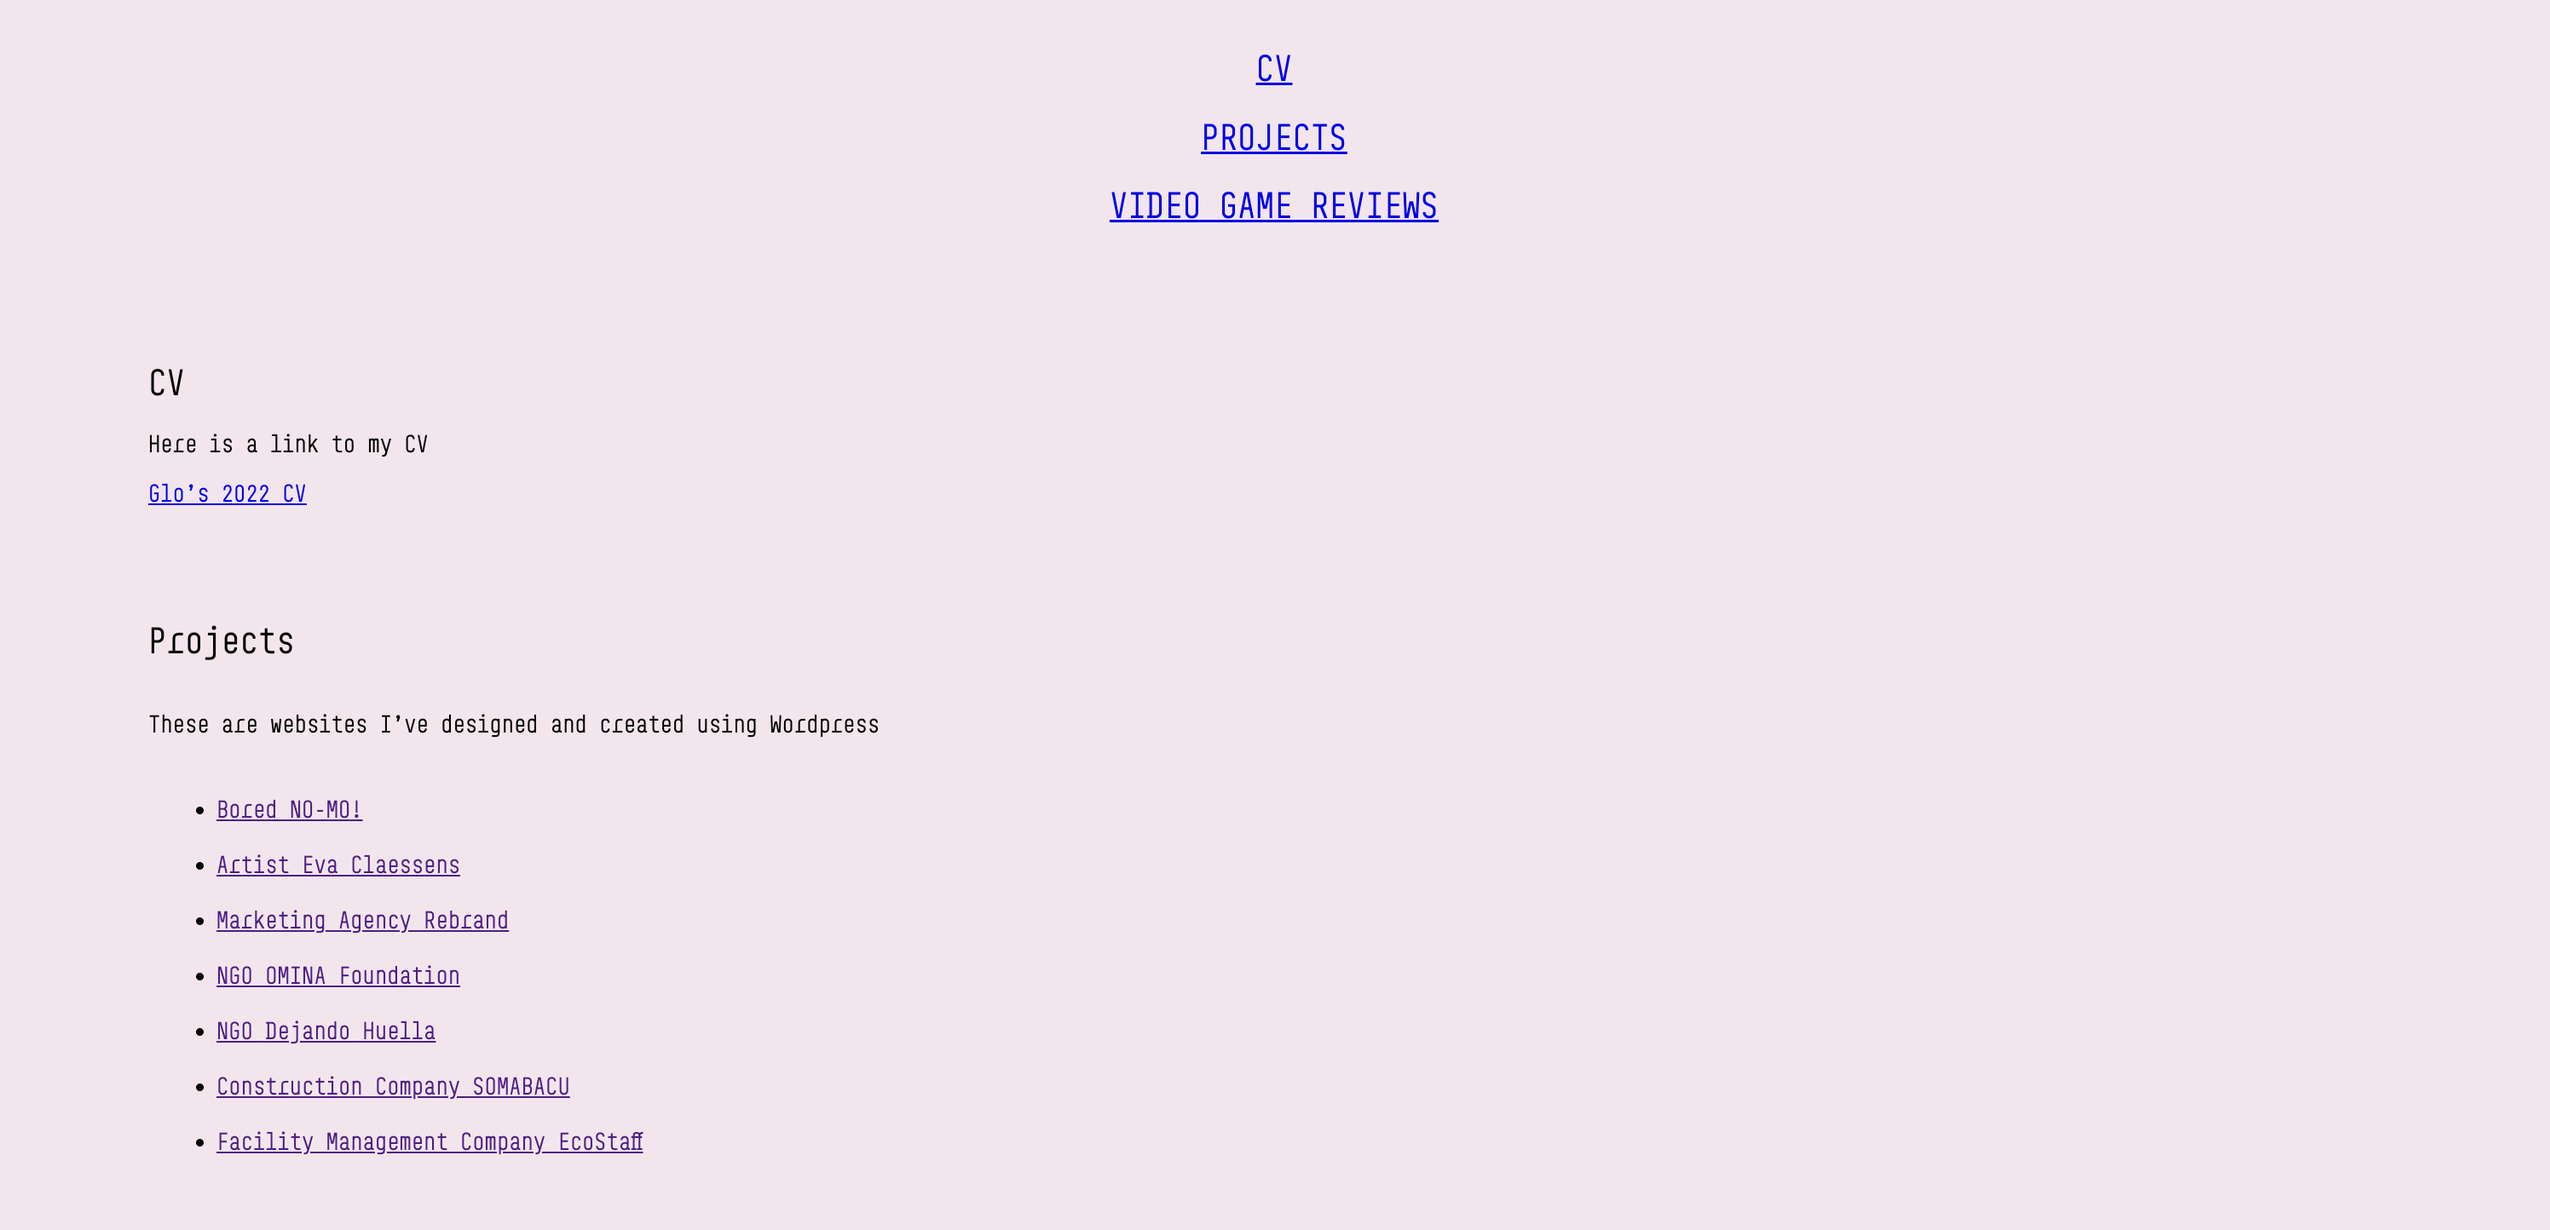
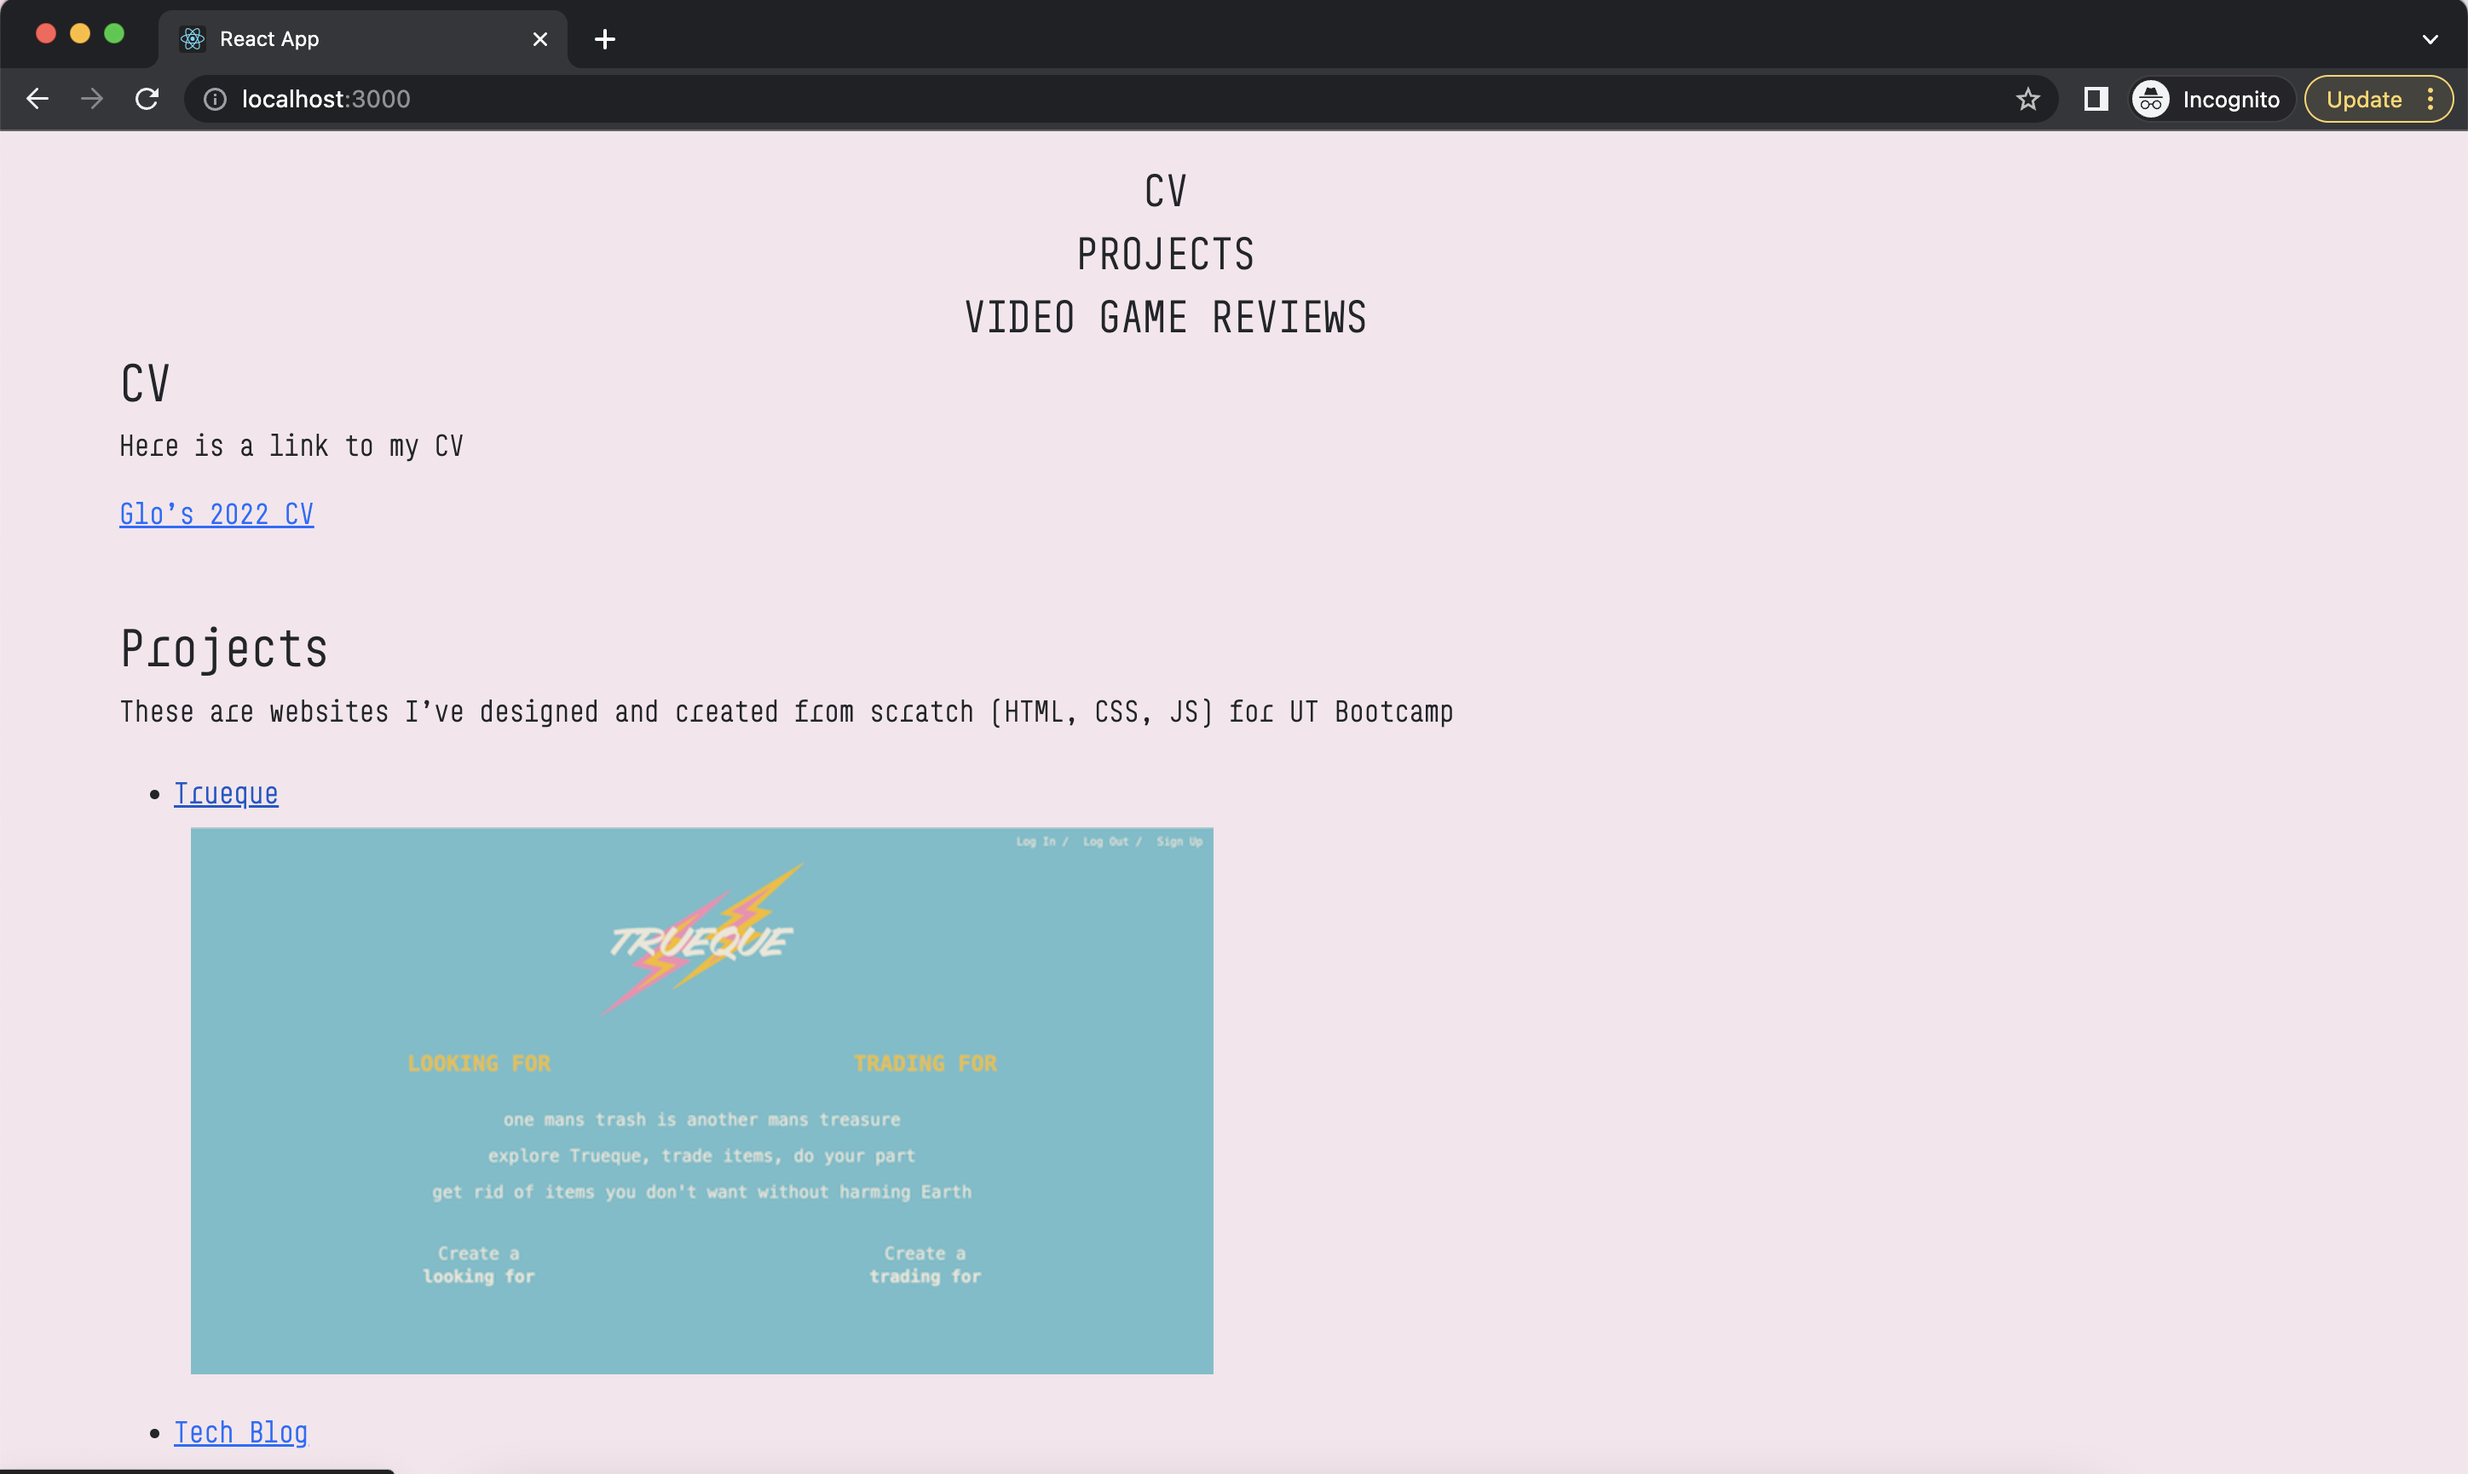
updated read me with images

diff --git a/src/components/VideoGames.js b/src/components/VideoGames.js
@@ -9,19 +9,19 @@ import zombies from '../images/zombies.gif'
 export default function VideoGames (){
     return (
         <div id="games" className="margin">
-            <h2>Video Game Reviews</h2>
+            <h3>Video Game Reviews</h3>
             <p>Love some, love some not</p>
             <div className="reviews">
 
                 <section>
-                <h3>Super Mario 64</h3>
+                <h4>Super Mario 64</h4>
                     <img src={mario} alt="gif of Mario sliding on a turtle shell"/>
                     <p>Greatest game ever. No more needed.</p>
                     <p>10/10</p>
                 </section>
 
                 <section>
-                <h3>Lovers in a Dangerous Spacetime</h3>
+                <h4>Lovers in a Dangerous Spacetime</h4>
                     <img src={lovers} alt="gif of spaceship fighting off mini bosses"/>
                     <p>Unbelievably good game. Crazy hard. </p>
                     <p>Beautiful graphics. If playing solo,</p>
@@ -30,7 +30,7 @@ export default function VideoGames (){
                 </section>
 
                 <section>
-                <h3>Rocket League</h3>
+                <h4>Rocket League</h4>
                     <img src={rocket} alt="gif of a race car hitting a ball and scoring a goal"/>
                     <p>Did not like. At all.</p>
                     <p>Don't want to say I hate it, but I do.</p>
@@ -38,7 +38,7 @@ export default function VideoGames (){
                 </section>   
 
                 <section>
-                <h3>Fortnite</h3>
+                <h4>Fortnite</h4>
                     <img src={fortnite} alt="gif of player shooting another player"/>
                     <p>I don't trust people</p>
                     <p>that say this is a bad game.</p>
@@ -48,7 +48,7 @@ export default function VideoGames (){
                 </section> 
                 
                 <section>
-                <h3>Luigis Dark Moon Mansion</h3>
+                <h4>Luigis Dark Moon Mansion</h4>
                     <img src={luigi} alt="gif of Luigi vacuuming a ghost"/>
                     <p>One of my favorite games ever.</p>
                     <p>Super fun to play, all ages.</p>
@@ -56,7 +56,7 @@ export default function VideoGames (){
                 </section>
 
                 <section>
-                <h3>COD Black Ops 2</h3>
+                <h4>COD Black Ops 2</h4>
                     <img src={zombies} alt="gif of player shooting down a zombie"/>
                     <p>Only COD I've liked, because of zombies mode.</p>
                     <p>I've yet to find weapons as good as these.</p>

diff --git a/src/components/Projects.js b/src/components/Projects.js
@@ -4,7 +4,7 @@ export default function Projects (){
     return (
         <div>
             <section id="projects" className="margin">
-            <h2 >Projects</h2>
+            <h3 >Projects</h3>
             <p>These are websites I've designed and created from scratch (HTML, CSS, JS) for UT Bootcamp</p>
                 <ul className="links">
                     <li id="trueque"><a href="https://the-sequelizers.herokuapp.com/" rel="noreferrer">Trueque</a></li>

diff --git a/src/components/Cv.js b/src/components/Cv.js
@@ -5,7 +5,7 @@ export default function Cv (){
     return (
         <div>
             <section id="cv">
-            <h2 className="margin">CV</h2>
+            <h3 className="margin">CV</h3>
             <p className="margin">Here is a link to my CV</p>
             <a href={cv} rel="noreferrer" className="margin">Glo's 2022 CV</a>
             </section>

diff --git a/src/components/Menu.js b/src/components/Menu.js
@@ -4,9 +4,9 @@ export default function Menu (){
     return (
         <div>
             <section className="menu">
-            <h2>CV</h2>
-            <h2>PROJECTS</h2>
-            <h2>VIDEO GAME REVIEWS</h2>
+            <h4>CV</h4>
+            <h4>PROJECTS</h4>
+            <h4>VIDEO GAME REVIEWS</h4>
             </section>
         </div>
     )

diff --git a/src/components/Form.js b/src/components/Form.js
@@ -15,7 +15,7 @@ const Form = () => {
   }
   return (
     <div className="container mt-5">
-      <h2 className="mb-3">Contact me!</h2>
+      <h3 className="mb-3">Contact me!</h3>
       <form onSubmit={onSubmit}>
         <div className="mb-3">
           <label className="form-label" htmlFor="name">

diff --git a/src/components/Nav.js b/src/components/Nav.js
@@ -5,7 +5,7 @@ export default function Nav (){
     return (
         <div>
             <span className="header">
-            <h1>Glo's Portfolio</h1>
+            <h2>Glo's Portfolio</h2>
             </span>
             <span>
             <p className="contact">

diff --git a/README.md b/README.md
@@ -5,11 +5,14 @@ Deployed work portfolio in a single-page React app
 I have replicated my orginal portfolio with React in order to showcase my understanding of elements and their functionality. 
 
 # Usage 
-From the command line run `npm start`
-If your local host shows another application, open an incognito window and type `http://localhost:3000/`
+- From the command line run `npm start`
+- If your local host shows another application, open an incognito window and type `http://localhost:3000/`
 
 # Links
-- Deployed application:
-- GitHub repo:
+- Deployed application: 
+- GitHub repo: `https://github.com/ggggglo/portfolio_react`
 
 # Website Images
+[!1](./src/images/1.png)
+[!2](./src/images/2.png)
+[!3](./src/images/3.png)
